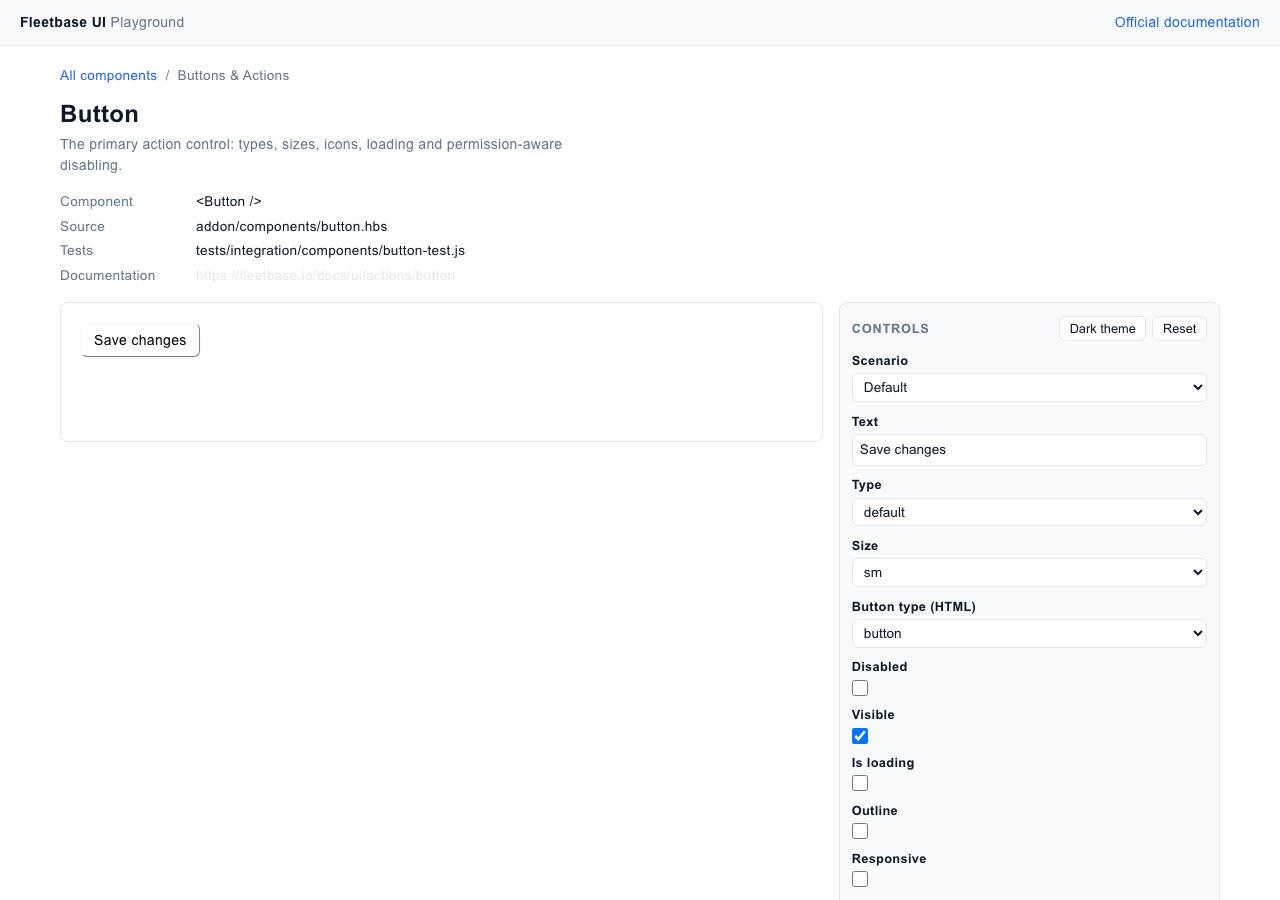
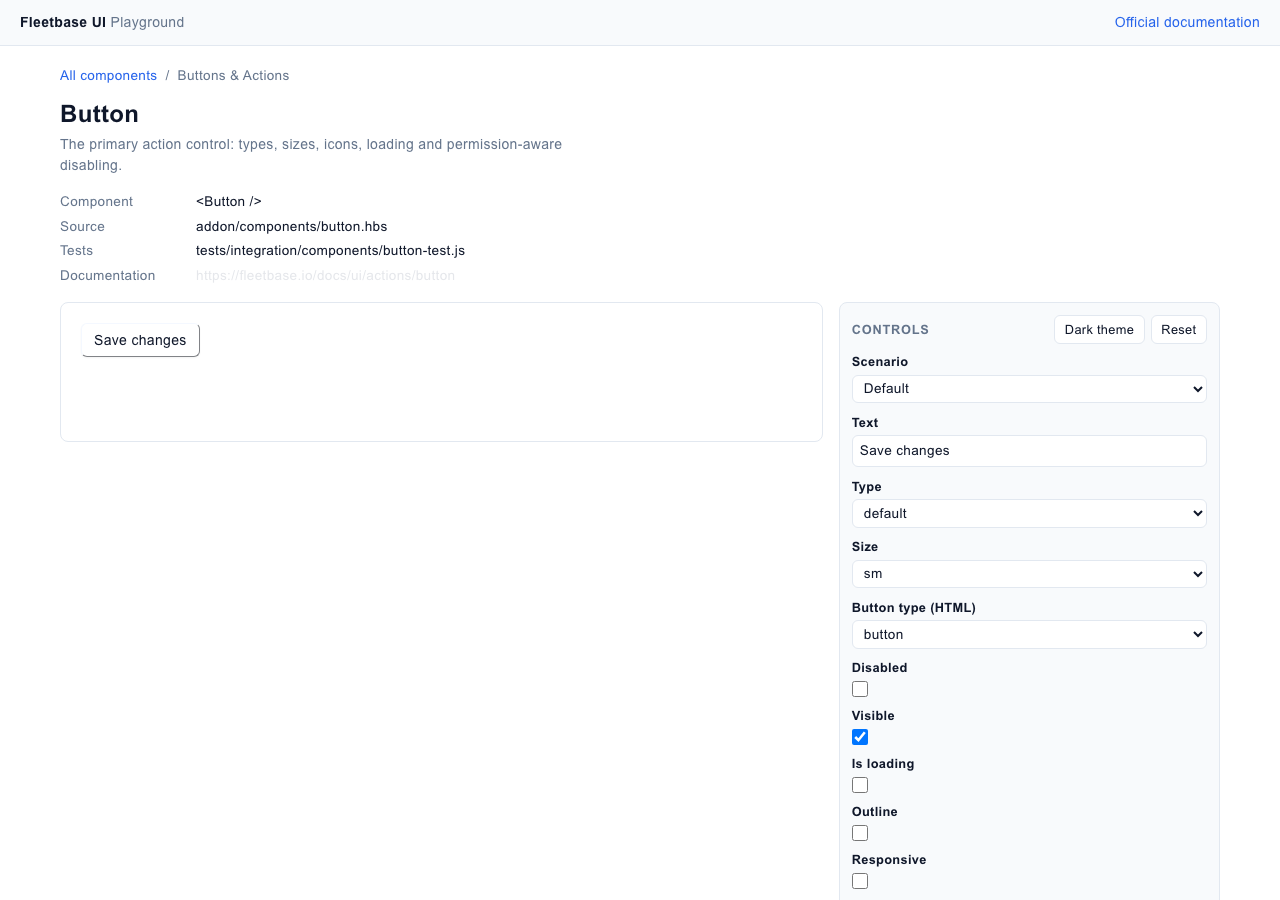
Supply the two things the playground's host application was missing
Reported while trying the playground: the components looked unstyled, and the page would not
scroll past the fold. Both were host-application gaps rather than anything wrong with a component.

Element normalisation. addon/styles/addon.css deliberately ships no `@tailwind base` — an addon
emitting preflight would clobber every application consuming it — and its `@apply`-generated rules
assume the elements underneath are already normalised. Without that layer a <button> keeps the user
agent's `buttontext` colour, pure black, instead of inheriting, and form controls keep UA fonts.

Emitting `@tailwind base` here fixes the previews and breaks the addon: preflight lands after the
addon stylesheet and wins on equal specificity, so `button { cursor: pointer }` silently overrides
the console's deliberate `* { cursor: default }` — which navigator-test.js asserts, and which duly
went red. A real console loads preflight before the addon, and that ordering cannot be reproduced
from inside the dummy app. So only the normalisation the previews need is applied, scoped to
.pg-host, with the ancestor inside `:where()` so the rules weigh exactly what preflight's own
element selectors weigh and .btn-sm keeps winning. Nothing outside the playground is affected.

Viewport lock. The shipped CSS contains `body, html { height: 100vh; overflow: hidden }`, which is
right for the console — it fills the viewport and scrolls its panes independently — but the
[…]

diff --git a/tests/acceptance/playground/styling-test.js b/tests/acceptance/playground/styling-test.js
@@ -1,0 +1,88 @@
+import { module, test } from 'qunit';
+import { visit, find } from '@ember/test-helpers';
+import { setupApplicationTest } from 'dummy/tests/helpers';
+
+/**
+ * The playground has to render components the way a consuming application does, and it has to be
+ * usable as an ordinary page. Both of these were broken and are easy to break again, because both
+ * depend on what the HOST application contributes rather than on anything in a component.
+ */
+module('Acceptance | playground | styling', function (hooks) {
+    setupApplicationTest(hooks);
+
+    module('the addon stylesheet reaches the preview', function () {
+        test('a previewed Button carries the addon classes and their computed styles', async function (assert) {
+            await visit('/components/button');
+
+            const button = find('[data-test-preview] button.btn');
+
+            assert.ok(button, 'a real addon button is rendered');
+            assert.dom(button).hasClass('btn-default', 'the type class is applied');
+            assert.dom(button).hasClass('btn-sm', 'the size class is applied');
+
+            const styles = window.getComputedStyle(button);
+
+            // `.btn-default` supplies the border and background; `.btn-sm` the radius. If the addon
+            // stylesheet were missing, these would be the user agent's defaults instead.
+            assert.strictEqual(styles.borderTopWidth, '1px', '.btn-default border width applied');
+            assert.strictEqual(styles.backgroundColor, 'rgb(255, 255, 255)', '.btn-default background applied');
+            assert.strictEqual(styles.borderTopLeftRadius, '6px', '.btn-sm radius applied');
+        });
+
+        test('the base layer normalises the button, so it does not keep the user agent text colour', async function (assert) {
+            // Regression: `addon/styles/addon.css` deliberately ships no `@tailwind base` — an
+            // addon must not emit preflight. The HOST application supplies it, and here the
+            // playground is the host. Without it a <button> keeps `color: buttontext` (pure black)
+            // rather than inheriting, and the previews looked unstyled when only the layer
+            // underneath them was missing.
+            await visit('/components/button');
+
+            const styles = window.getComputedStyle(find('[data-test-preview] button.btn'));
+
+            assert.notStrictEqual(styles.color, 'rgb(0, 0, 0)', 'the button is not falling back to the UA button colour');
+        });
+    });
+
+    module('the page is an ordinary scrollable document', function () {
+        test('neither html nor body is locked to the viewport', async function (assert) {
+            // Regression: the addon's shipped CSS contains
+            // `body, html { height: 100vh; overflow: hidden }` for the console shell, which
+            // manages its own scroll regions. Inheriting it made everything below the fold
+            // unreachable in the playground.
+            await visit('/components');
+
+            for (const element of [document.documentElement, document.body]) {
+                const styles = window.getComputedStyle(element);
+
+                assert.notStrictEqual(styles.overflowY, 'hidden', `${element.tagName.toLowerCase()} does not clip vertically`);
+                assert.notStrictEqual(styles.maxHeight, '100%', `${element.tagName.toLowerCase()} is not capped to the viewport`);
+            }
+        });
+
+        test('nothing between the catalog and the document clips it to a fixed height', async function (assert) {
+            // Comparing `body.scrollHeight` to `window.innerHeight` would be a test of the test
+            // runner's container, not of the playground — the suite renders into `#ember-testing`,
+            // which is not the browser viewport. What actually broke was an ancestor combining a
+            // fixed height with hidden overflow, so that is what is asserted.
+            await visit('/components');
+
+            const clipping = [];
+
+            for (let node = find('[data-test-catalog]'); node && node !== document; node = node.parentElement ?? document) {
+                const styles = window.getComputedStyle(node);
+                const clipsVertically = styles.overflowY === 'hidden' || styles.overflow === 'hidden';
+                const fixedHeight = styles.height !== 'auto' && styles.maxHeight !== 'none';
+
+                if (clipsVertically && fixedHeight) {
+                    clipping.push(`${node.tagName.toLowerCase()}${node.id ? '#' + node.id : ''} (height ${styles.height}, max-height ${styles.maxHeight})`);
+                }
+
+                if (node === document.documentElement) {
+                    break;
+                }
+            }
+
+            assert.deepEqual(clipping, [], 'no ancestor caps the catalog and hides the overflow');
+        });
+    });
+});

diff --git a/tests/dummy/app/styles/app.css b/tests/dummy/app/styles/app.css
@@ -1,4 +1,67 @@
 /*
+ * Element normalisation for the preview surface.
+ *
+ * `addon/styles/addon.css` deliberately ships no `@tailwind base` — an addon that emitted
+ * preflight would clobber every application consuming it. Its component rules are `@apply`-
+ * generated and assume the host has already normalised the elements underneath them. Without that
+ * layer a <button> keeps the user agent's `buttontext` colour (pure black) instead of inheriting,
+ * and form controls keep UA fonts: the previews looked unstyled when only the layer beneath them
+ * was missing.
+ *
+ * Emitting `@tailwind base` here would fix the previews and break the addon. Preflight would land
+ * AFTER the addon's stylesheet and win on equal specificity, silently overriding deliberate rules
+ * — `button { cursor: pointer }` versus the console's `* { cursor: default }`, which
+ * `tests/integration/components/layout/sidebar/navigator-test.js` asserts. In a real console the
+ * application's preflight loads BEFORE the addon, so the addon wins; reproducing that ordering
+ * inside the dummy app is not possible.
+ *
+ * So only the normalisation the previews actually need is applied, scoped to the playground. The
+ * ancestor sits in `:where()` so it contributes no specificity: these rules weigh exactly as much
+ * as preflight's own element selectors (0,0,1), which keeps `.btn-sm` and friends winning, and
+ * nothing outside `.pg-host` — every component integration test included — is affected.
+ */
+:where(.pg-host) button,
+:where(.pg-host) input,
+:where(.pg-host) optgroup,
+:where(.pg-host) select,
+:where(.pg-host) textarea {
+    color: inherit;
+    font-family: inherit;
+    font-size: 100%;
+    font-weight: inherit;
+    line-height: inherit;
+    letter-spacing: inherit;
+    margin: 0;
+}
+
+:where(.pg-host) button,
+:where(.pg-host) select {
+    text-transform: none;
+}
+
+/*
+ * Opt out of the console's viewport lock.
+ *
+ * The addon's shipped CSS contains `body, html { height: 100vh; overflow: hidden; overflow-y:
+ * hidden }` (plus `body { height: 100%; max-height: 100% }`). That is right for the Fleetbase
+ * console, which fills the viewport and scrolls its sidebar and main pane independently — but the
+ * playground is an ordinary document that grows past the fold, and inheriting the lock made every
+ * catalog entry and control below ~720px unreachable: content measured 3080px tall inside a
+ * 720px, non-scrolling viewport.
+ *
+ * `tests/dummy` is loaded after the addon's stylesheet, so a same-specificity rule is enough; no
+ * `!important` and no selector hacks are needed. Component previews that want the console's
+ * full-height behaviour still get it — they set their own heights inside the preview surface.
+ */
+html,
+body {
+    height: auto;
+    max-height: none;
+    overflow: visible;
+    overflow-y: auto;
+}
+
+/*
  * Playground chrome only.
  *
  * Deliberately plain CSS scoped to `pg-` classes: the components under test bring the addon's own

diff --git a/PLAYGROUND.md b/PLAYGROUND.md
@@ -163,6 +163,43 @@ https://fleetbase.github.io/ember-ui/#/embed/button?state=…
 
 ---
 
+## What the host application has to supply
+
+The addon ships component styles, not a document. Two things a consuming application normally
+provides had to be supplied by the playground, and both were missing at first — the previews
+looked unstyled and the page would not scroll.
+
+**1. Element normalisation.** `addon/styles/addon.css` deliberately contains no `@tailwind base`;
+an addon emitting preflight would clobber every application consuming it. Its component rules are
+`@apply`-generated and assume the elements underneath are already normalised. Without that layer a
+`<button>` keeps the user agent's `buttontext` colour — pure black — instead of inheriting, and
+form controls keep UA fonts.
+
+Emitting `@tailwind base` from the dummy app fixes the previews and *breaks the addon*: preflight
+would land after the addon's stylesheet and win on equal specificity, silently overriding
+deliberate rules — `button { cursor: pointer }` against the console's `* { cursor: default }`,
+which `tests/integration/components/layout/sidebar/navigator-test.js` asserts. A real console loads
+its preflight *before* the addon, so the addon wins there; that ordering cannot be reproduced from
+inside the dummy app.
+
+So `tests/dummy/app/styles/app.css` applies only the normalisation the previews need, scoped to
+`.pg-host`, with the ancestor inside `:where()` so it contributes no specificity. The rules weigh
+exactly as much as preflight's own element selectors (0,0,1), which keeps `.btn-sm` and friends
+winning, and nothing outside the playground is affected.
+
+**2. Opting out of the console's viewport lock.** The shipped CSS contains
+`body, html { height: 100vh; overflow: hidden }`. That is right for the Fleetbase console, which
+fills the viewport and scrolls its sidebar and main pane independently — but the playground is an
+ordinary document that grows past the fold. Inheriting the lock made everything below it
+unreachable: the catalog measured 3080px inside a 720px, non-scrolling viewport. `app.css` restores
+`height: auto` and `overflow-y: auto`; `tests/dummy` loads after the addon stylesheet, so a
+same-specificity rule is enough — no `!important`, no selector hacks.
+
+Both are covered by `tests/acceptance/playground/styling-test.js`, which asserts the computed
+styles of a previewed Button and that nothing between the catalog and the document clips it.
+
+---
+
 ## Local commands
 
 ```bash
